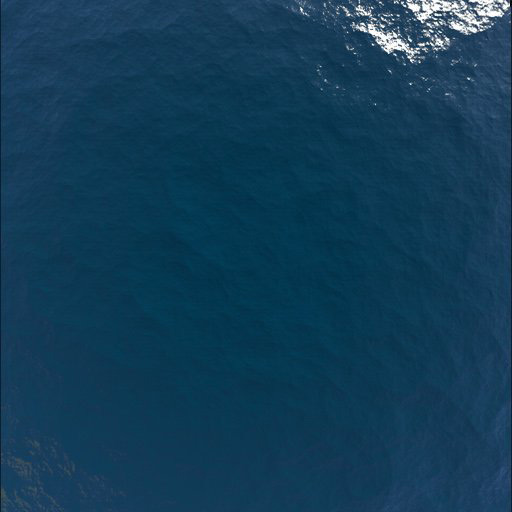
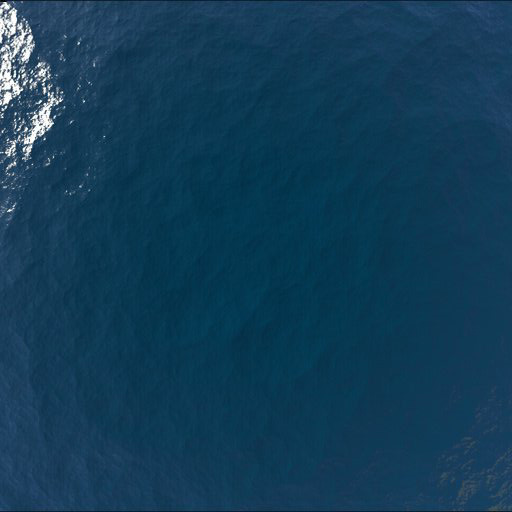
surface

diff --git a/TGC.Group/Model/Scenes/GameScene.cs b/TGC.Group/Model/Scenes/GameScene.cs
@@ -35,7 +35,7 @@ namespace TGC.Group.Model.Scenes
         Scene subScene;
         InventoryScene inventoryScene;
 
-        TgcSkyBox skyBox;
+        TgcSkyBox skyBoxUnderwater, skyBoxOutside;
         CustomSprite waterVision, mask, aim, hand, cursor, dialogBox, blackCircle;
         Drawer2D drawer = new Drawer2D();
         string dialogName, dialogDescription;
@@ -62,7 +62,8 @@ namespace TGC.Group.Model.Scenes
 
         public GameScene(TgcD3dInput input, string mediaDir) : base(input)
         {
-            backgroundColor = Color.FromArgb(1, 78, 129, 179);
+            //backgroundColor = Color.FromArgb(1, 78, 129, 179);
+            backgroundColor = Color.Yellow;
 
             this.World = new World(new TGCVector3(0, 0, 0));
 
@@ -74,7 +75,7 @@ namespace TGC.Group.Model.Scenes
             IncrementFarPlane(3f);
             SetClampTextureAddressing();
             InitInventoryScene();
-            InitSkyBox();
+            InitSkyBoxes();
             InitWaterVision();
             InitMask();
             InitAim();
@@ -191,19 +192,36 @@ namespace TGC.Group.Model.Scenes
             dialogBox.Position = new TGCVector2(dialogBox.Position.X + 120, dialogBox.Position.Y + 80);
         }
 
-        private void InitSkyBox()
+        private void InitSkyBoxes()
         {
-            skyBox = new TgcSkyBox();
-            skyBox.SkyEpsilon = 0;
-            skyBox.Center = Camera.Position;
-            skyBox.Size = new TGCVector3(30000, 30000, 30000);
-            skyBox.setFaceTexture(TgcSkyBox.SkyFaces.Up   , baseDir + "underwater_skybox-up.jpg"    );
-            skyBox.setFaceTexture(TgcSkyBox.SkyFaces.Down , baseDir + "underwater_skybox-down.jpg"  );
-            skyBox.setFaceTexture(TgcSkyBox.SkyFaces.Left , baseDir + "underwater_skybox-left.jpg"  );
-            skyBox.setFaceTexture(TgcSkyBox.SkyFaces.Right, baseDir + "underwater_skybox-right.jpg" );
-            skyBox.setFaceTexture(TgcSkyBox.SkyFaces.Front, baseDir + "underwater_skybox-front.jpg" );
-            skyBox.setFaceTexture(TgcSkyBox.SkyFaces.Back , baseDir + "underwater_skybox-back.jpg"  );
-            skyBox.Init();
+            skyBoxUnderwater = new TgcSkyBox();
+            skyBoxUnderwater.Color = Color.FromArgb(255, 2, 37, 91);
+            skyBoxUnderwater.SkyEpsilon = 30;
+            skyBoxUnderwater.Center = Camera.Position;
+            skyBoxUnderwater.Size = new TGCVector3(30000, 8000, 30000);
+            skyBoxUnderwater.setFaceTexture(TgcSkyBox.SkyFaces.Up   , baseDir + "underwater_skybox-up.jpg"    );
+            skyBoxUnderwater.setFaceTexture(TgcSkyBox.SkyFaces.Down , baseDir + "underwater_skybox-down.jpg"  );
+            skyBoxUnderwater.setFaceTexture(TgcSkyBox.SkyFaces.Left , baseDir + "underwater_skybox-left.jpg"  );
+            skyBoxUnderwater.setFaceTexture(TgcSkyBox.SkyFaces.Right, baseDir + "underwater_skybox-right.jpg" );
+            skyBoxUnderwater.setFaceTexture(TgcSkyBox.SkyFaces.Front, baseDir + "underwater_skybox-front.jpg" );
+            skyBoxUnderwater.setFaceTexture(TgcSkyBox.SkyFaces.Back , baseDir + "underwater_skybox-back.jpg"  );
+            skyBoxUnderwater.Init();
+
+            skyBoxOutside = new TgcSkyBox();
+            skyBoxOutside.SkyEpsilon = 50;
+            skyBoxOutside.Size = new TGCVector3(30000, 8000, 30000);
+            skyBoxOutside.Center = new TGCVector3(
+                skyBoxUnderwater.Center.X,
+                skyBoxUnderwater.Center.Y + skyBoxUnderwater.Size.Y / 2 + 30,
+                skyBoxUnderwater.Center.Z
+                );
+            skyBoxOutside.setFaceTexture(TgcSkyBox.SkyFaces.Up, baseDir +    "skybox-up.jpg");
+            skyBoxOutside.setFaceTexture(TgcSkyBox.SkyFaces.Down, baseDir +  "skybox-down.jpg");
+            skyBoxOutside.setFaceTexture(TgcSkyBox.SkyFaces.Left, baseDir +  "skybox-left.jpg");
+            skyBoxOutside.setFaceTexture(TgcSkyBox.SkyFaces.Right, baseDir + "skybox-right.jpg");
+            skyBoxOutside.setFaceTexture(TgcSkyBox.SkyFaces.Front, baseDir + "skybox-front.jpg");
+            skyBoxOutside.setFaceTexture(TgcSkyBox.SkyFaces.Back, baseDir +  "skybox-back.jpg");
+            skyBoxOutside.Init();
         }
 
         private void SetClampTextureAddressing()
@@ -297,12 +315,19 @@ namespace TGC.Group.Model.Scenes
             }
             //***********************************************
 
-            skyBox.Center = Camera.Position;
+            skyBoxUnderwater.Center = new TGCVector3(Camera.Position.X, skyBoxUnderwater.Center.Y, Camera.Position.Z);
+            skyBoxOutside.Center = new TGCVector3(Camera.Position.X, skyBoxOutside.Center.Y, Camera.Position.Z);
+
             if (this.oneSecond > 0.01f)
             {
                 this.oneSecond = 0;
                 this.character.UpdateStats(new Stats(-1, 0));
                 this.character.UpdateStats(new Stats(-1, 0));
+            }
+
+            if(Camera.Position.Y > skyBoxUnderwater.Center.Y + skyBoxUnderwater.Size.Y / 2)
+            {
+                character.UpdateStats(new Stats(character.MaxStats.Oxygen, 0));
             }
 
             subScene.Update(elapsedTime);
@@ -313,7 +338,8 @@ namespace TGC.Group.Model.Scenes
         {
             ClearScreen();
 
-            this.skyBox.Render();
+            this.skyBoxUnderwater.Render();
+            this.skyBoxOutside.Render();
             this.World.Render(this.Camera);
 
             if (this.BoundingBox)
@@ -322,7 +348,7 @@ namespace TGC.Group.Model.Scenes
             }
 
             drawer.BeginDrawSprite();
-            drawer.DrawSprite(waterVision);
+            //drawer.DrawSprite(waterVision);
             drawer.DrawSprite(cursor);
             if (dialogName != "")
             {
